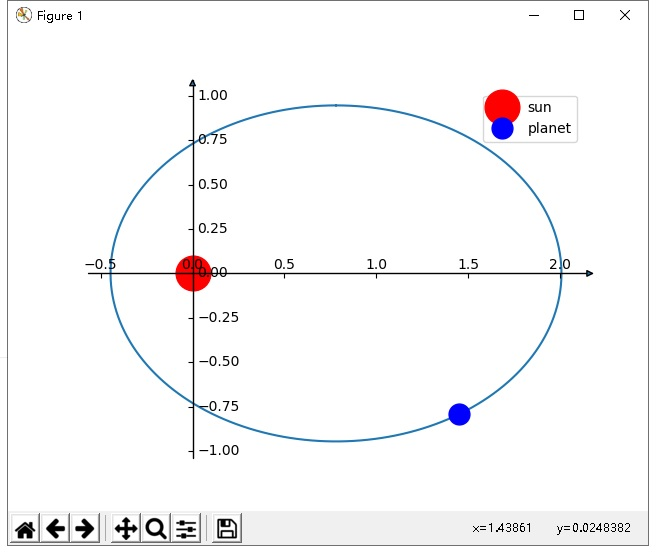
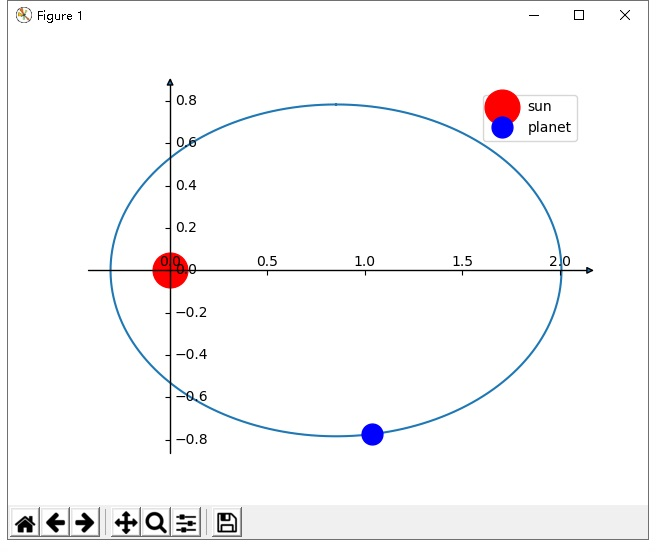
commit

diff --git a/_posts/2022-03-15-orbit.md b/_posts/2022-03-15-orbit.md
@@ -17,18 +17,20 @@ tags:
 import numpy as np
 import mpl_toolkits.axisartist as axisartist
 import matplotlib.pyplot as plt
+import gmpy2
+from gmpy2 import mpfr
 G=6.67e-11
-
 M=1e10
 x0=2
 y0=0.1
-v0=1.1
+v0=0.3
+N=200
 
 def proot(a1,b1,c1):
     return (-b1+(b1**2-4*a1*c1)**0.5)/2/a1
 def mroot(a1,b1,c1):
     return (-b1-(b1**2-4*a1*c1)**0.5)/2/a1
-a=1/(v0**2/G/M-2/(x0**2+y0**2)**0.5)
+a=1/(2/(x0**2+y0**2)**0.5-v0**2/G/M)
 c=(x0-((2*a-(x0**2+y0**2)**0.5)**2-y0**2)**0.5)/2
 b=(a**2-c**2)**0.5
 fig = plt.figure()
@@ -41,7 +43,7 @@ ax.axis["y"] = ax.new_floating_axis(1,0)
 ax.axis["y"].set_axisline_style("-|>", size = 1.0)
 ax.axis["x"].set_axis_direction("top")
 ax.axis["y"].set_axis_direction("right")
-ang = np.linspace(0,2*np.pi,200)
+ang = np.linspace(0,2*np.pi,N)
 x=a*np.sin(ang)+c
 y=b*np.cos(ang)
 p1,p2=(x0,y0)
@@ -62,7 +64,7 @@ while True:
     plt.plot(x,y)
     plt.plot(0,0,'ro',markersize=25,label='sun')
     plt.plot(p1,p2,'bo',markersize=15,label='planet')
-    theta+=np.arcsin(np.pi*a*b/100/(p1**2+p2**2))
+    theta+=np.arcsin(2*np.pi*a*b/N/(p1**2+p2**2))
     theta=theta%(np.pi*2)
     if theta > 0 and theta < np.pi/2 or theta > np.pi/2*3 and theta < np.pi*2:
         p1 = proot(b**2+a**2*np.tan(theta)**2,-2*b**2*c,b**2*c**2-a**2*b**2)
@@ -72,6 +74,7 @@ while True:
     plt.legend()
     plt.pause(0.0005)
 plt.show()
+
 ```
 效果：
 ![orbit-fig-1](/img/orbit-fig-1.jpg)
@@ -97,11 +100,13 @@ $\Delta\theta+\theta$就是新的$\theta$
 我就要知道在斜率为$tan\theta$的过原点的直线与椭圆的交点
 
 这是一个一元二次方程。
+
+**注：这个程序有精度问题，当轨道离心率太大时，可能出错**
 # 具体公式
 
 $$
 
-a=\frac{1}{\frac{v_0^2}{GM}-\frac{2}{\sqrt{x_0^2+y_0^2}}}
+a=\frac{1}{\frac{2}{\sqrt{x_0^2+y_0^2}}-\frac{v_0^2}{GM}}
 
 $$
 
